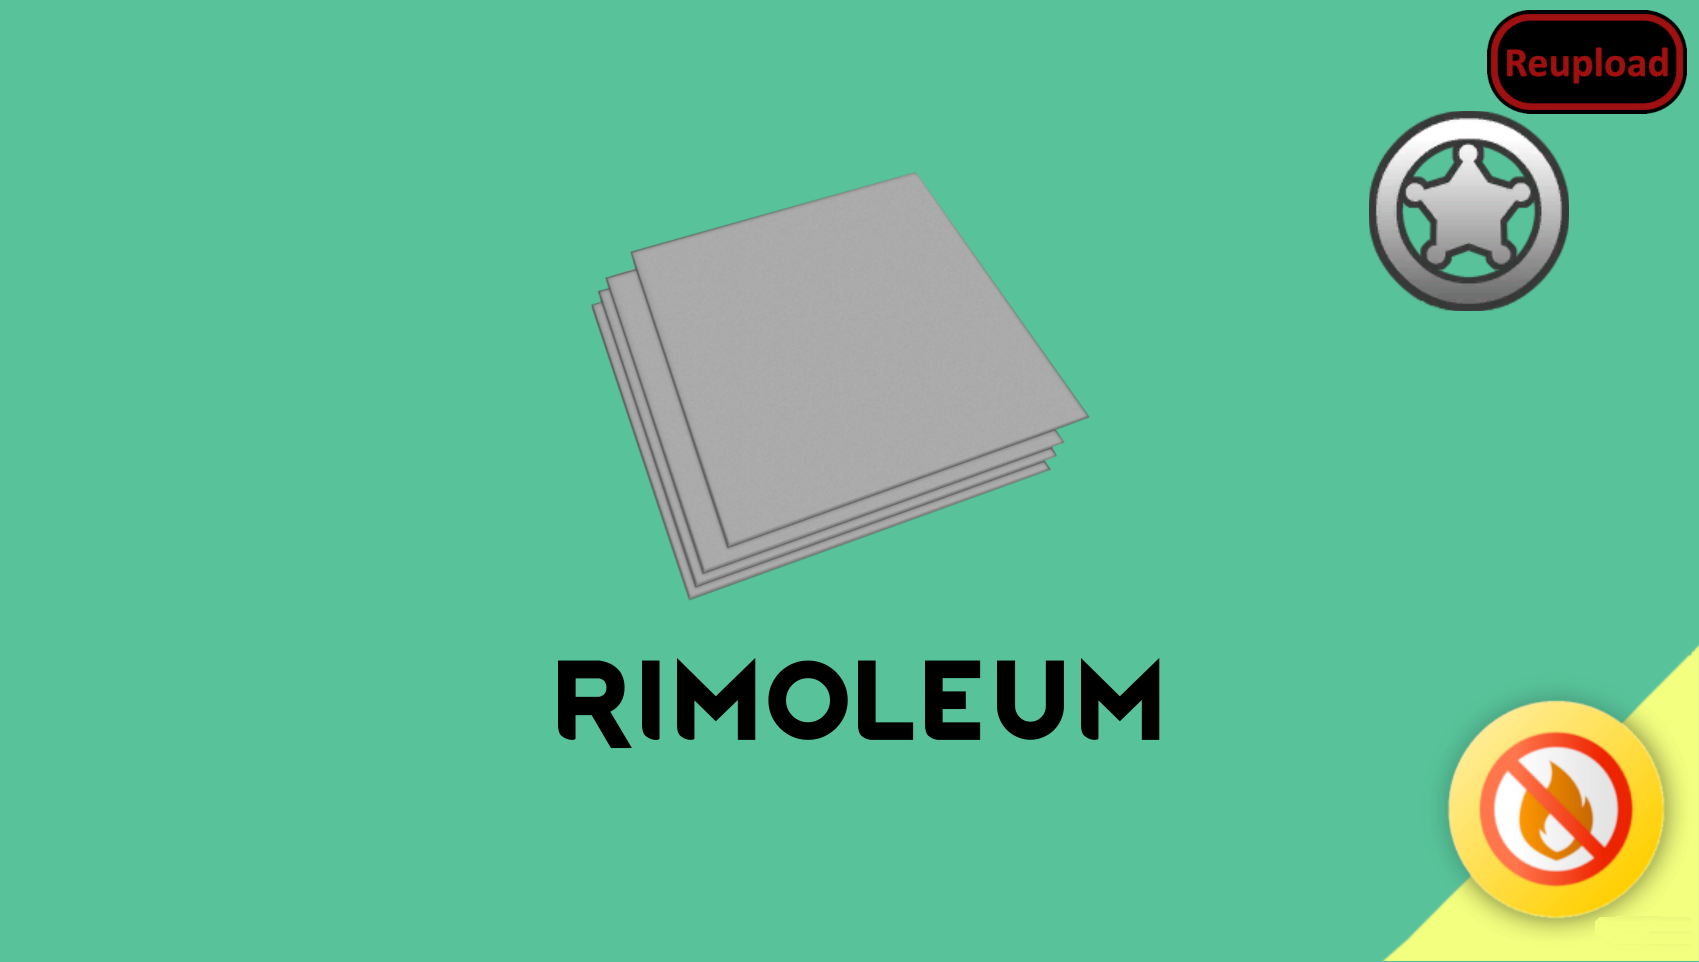
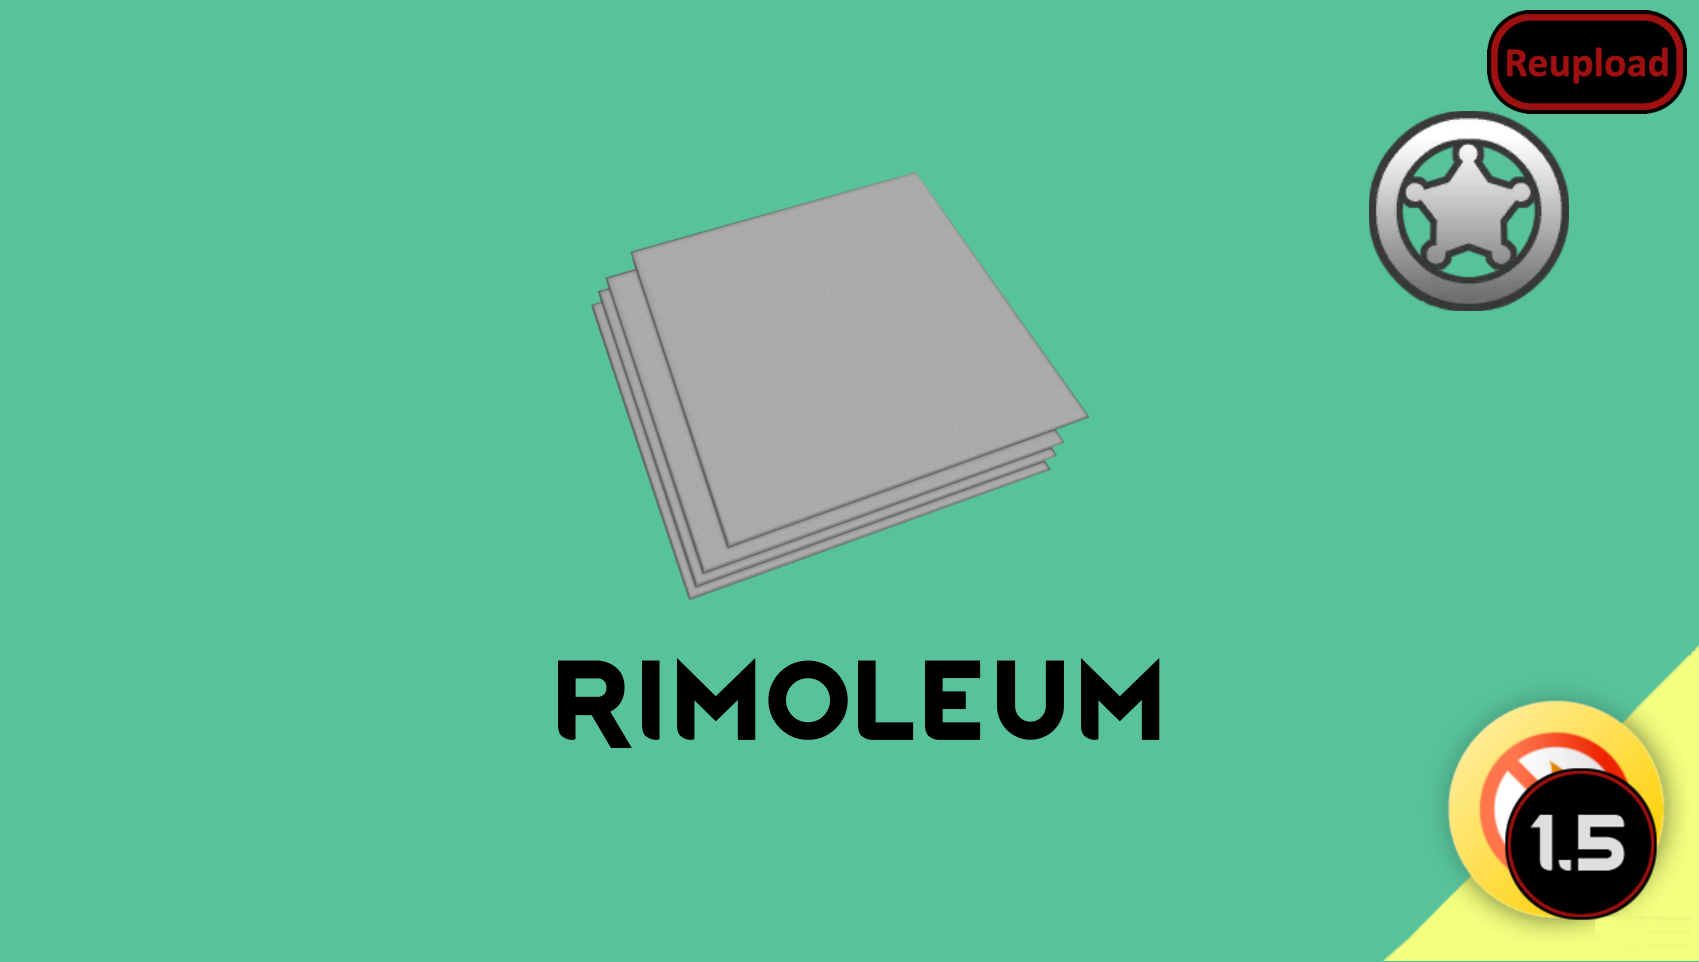
Mod updated for 1.5 and passed autotests

Changed region(s): [[0.8735, 0.7796, 0.9982, 0.9667]]

diff --git a/README.md b/README.md
@@ -51,11 +51,13 @@ RimPlas - will use RimRayon instead of Synthread, can also make the tiles in the
 
 -  See if the the error persists if you just have this mod and its requirements active.
 -  If not, try adding your other mods until it happens again.
--  Post your error-log using https://steamcommunity.com/workshop/filedetails/?id=818773962]HugsLib and command Ctrl+F12
+-  Post your error-log using https://steamcommunity.com/workshop/filedetails/?id=818773962]HugsLib or the standalone https://steamcommunity.com/sharedfiles/filedetails/?id=2873415404]Uploader and command Ctrl+F12
 -  For best support, please use the Discord-channel for error-reporting.
 -  Do not report errors by making a discussion-thread, I get no notification of that.
 -  If you have the solution for a problem, please post it to the GitHub repository.
+-  Use https://github.com/RimSort/RimSort/releases/latest]RimSort to sort your mods
 
 
 
+https://steamcommunity.com/sharedfiles/filedetails/changelog/2194437011]![Image](https://img.shields.io/github/v/release/emipa606/Rimoleum?label=latest%20version&style=plastic&color=9f1111&labelColor=black)
 
